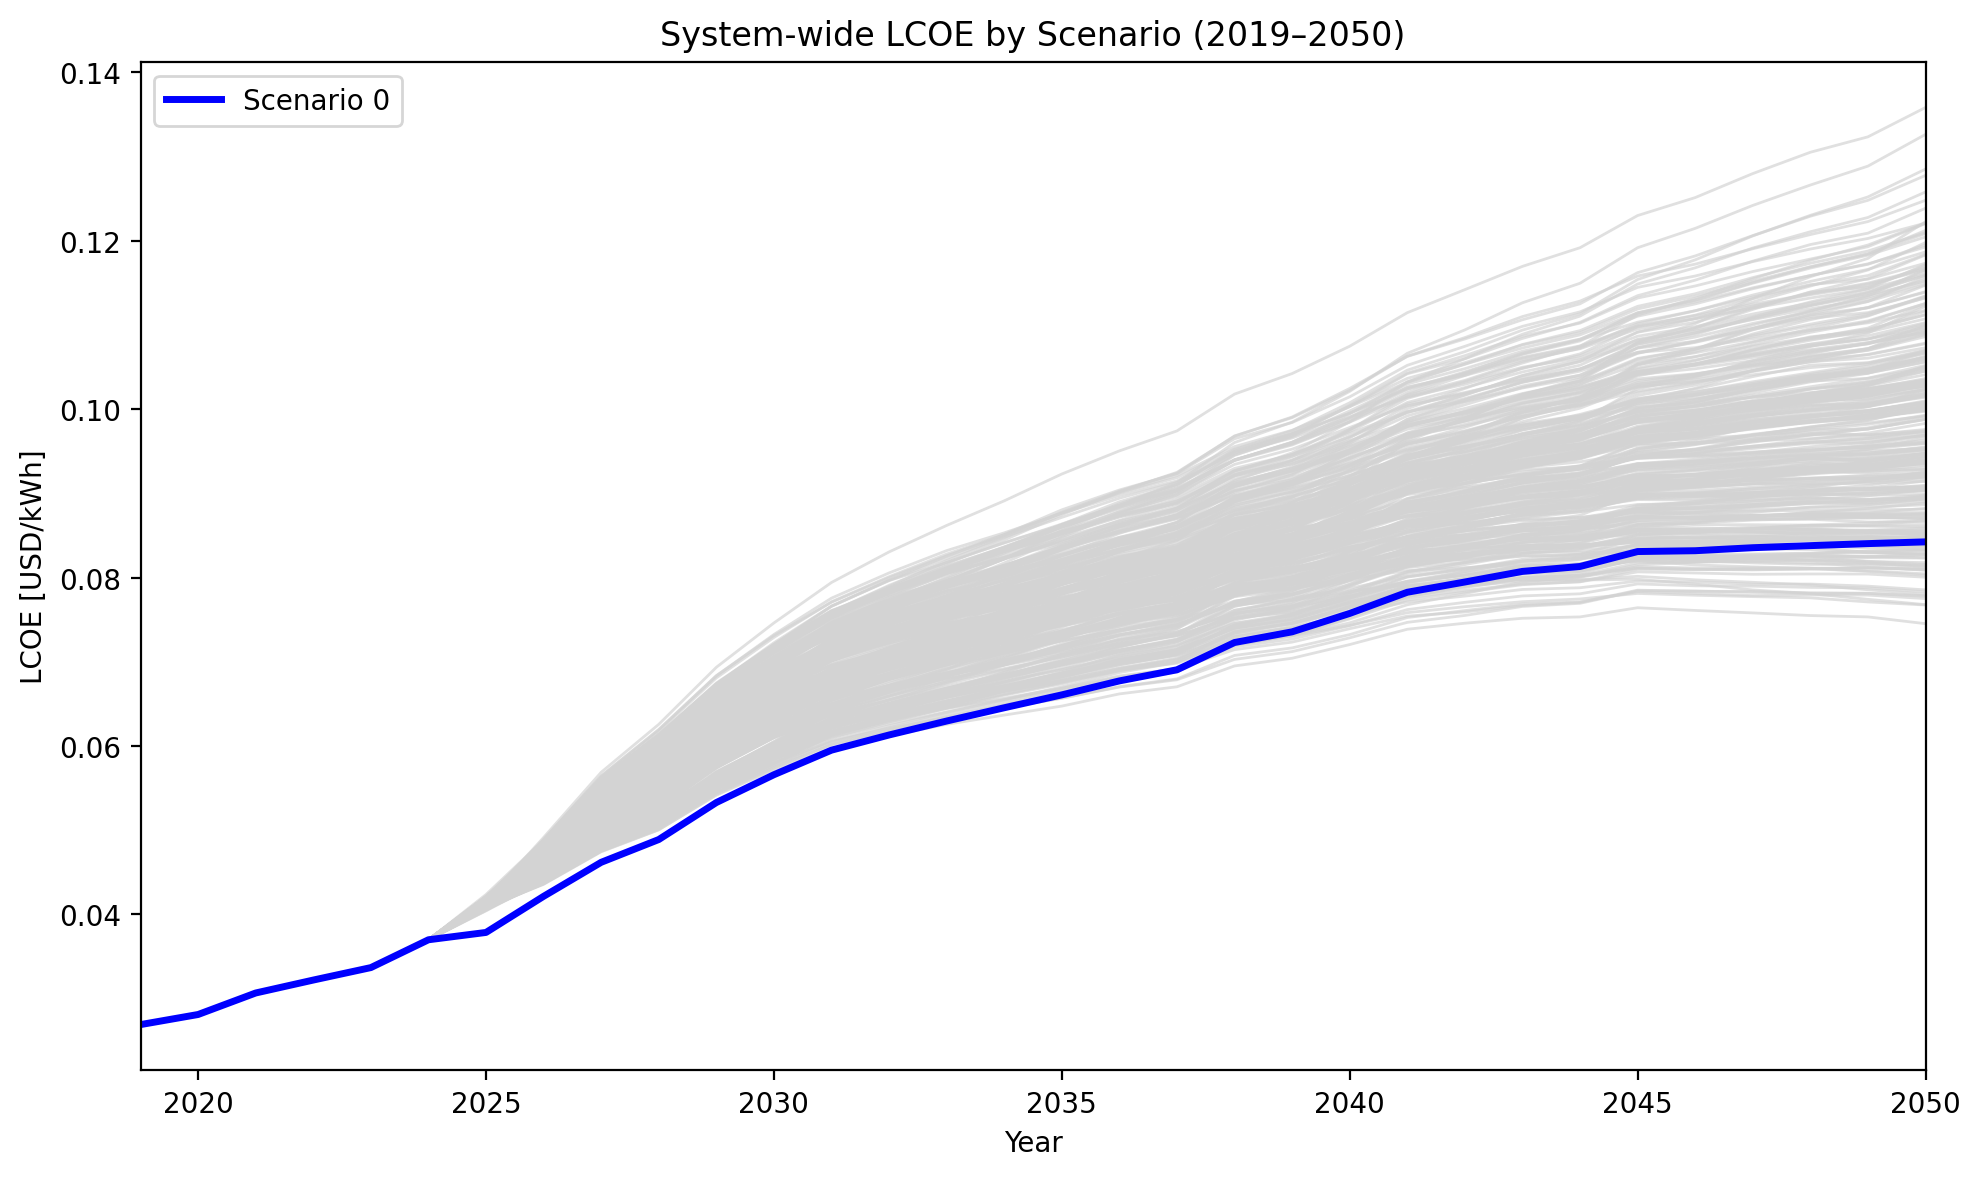
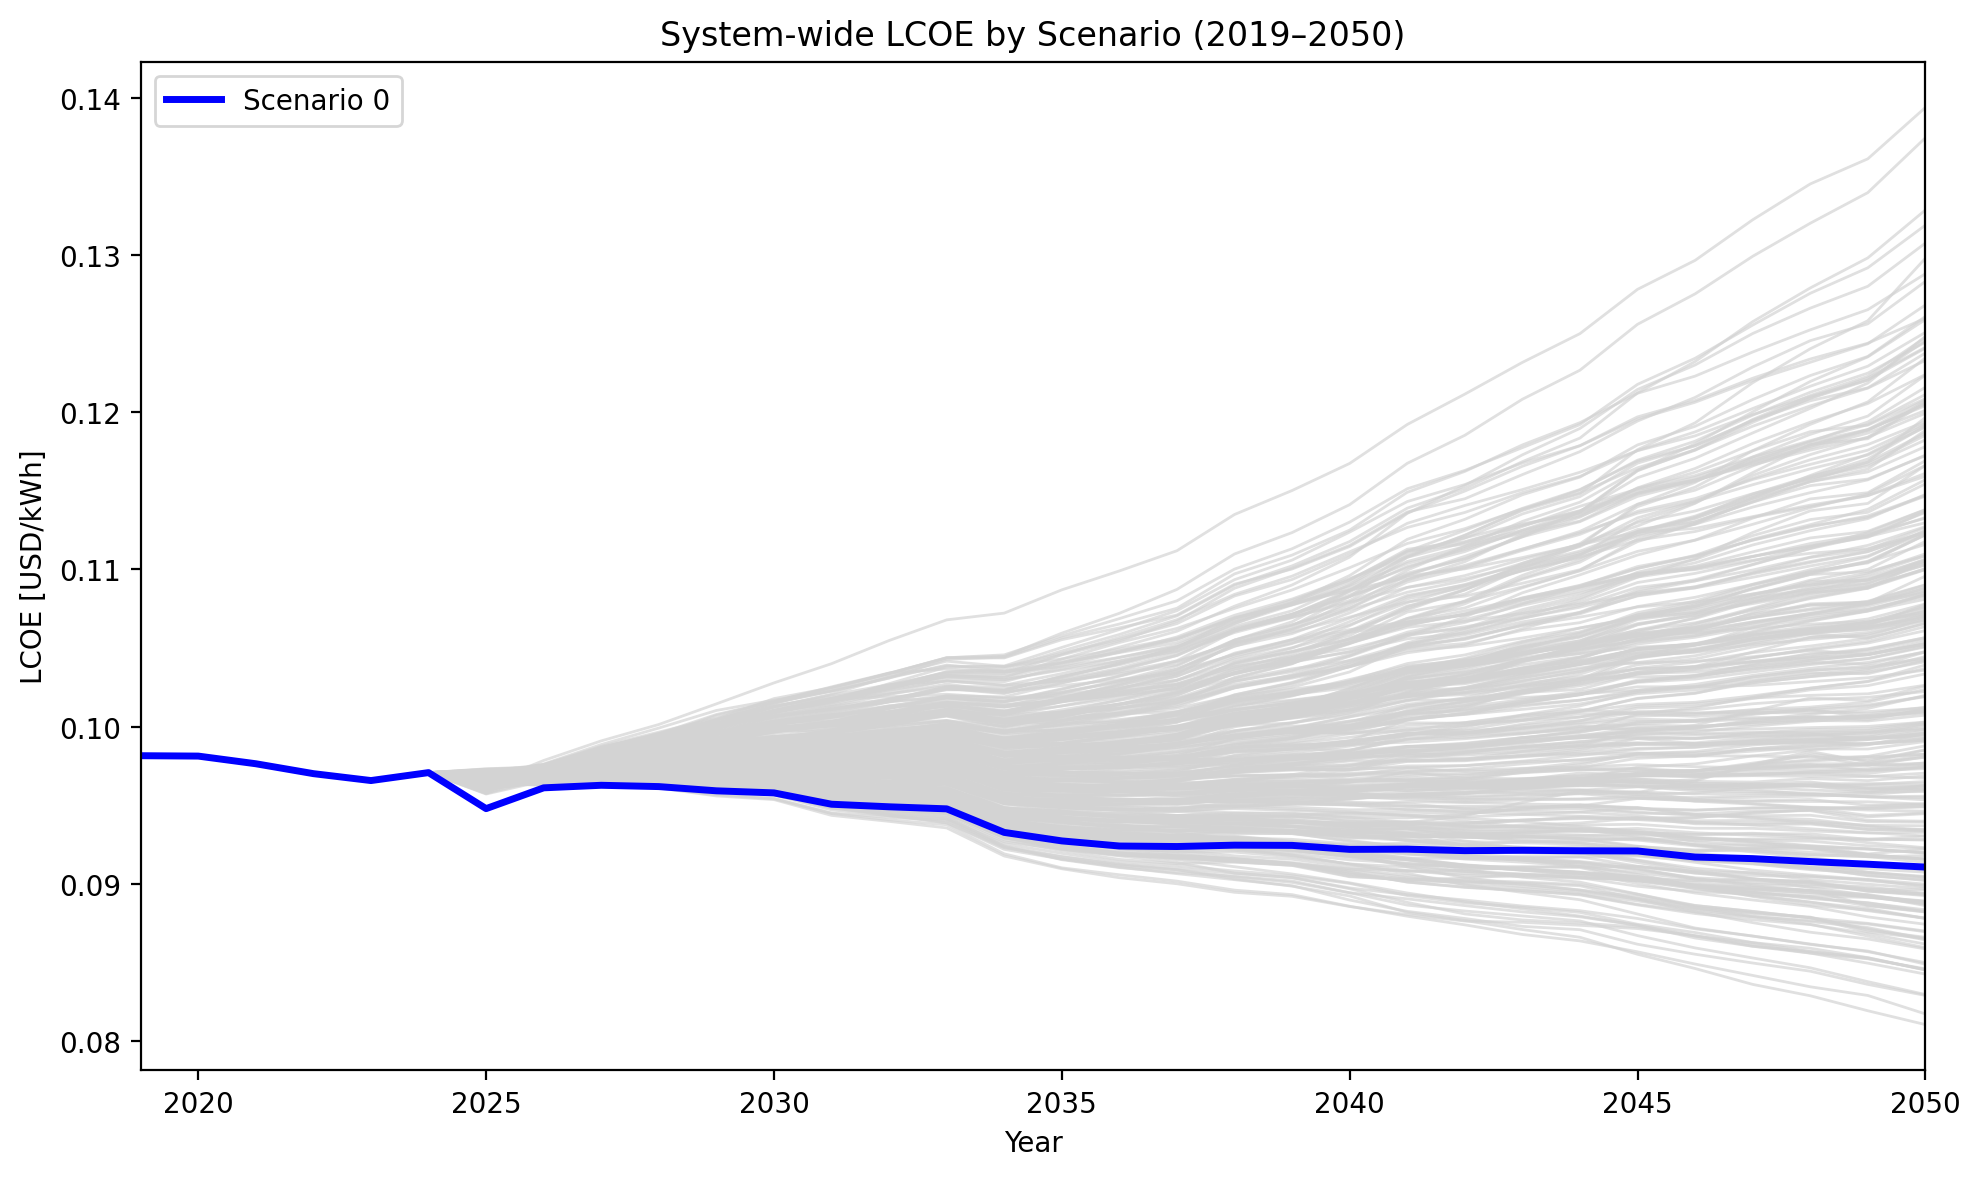
add residual capacity to lcoe

diff --git a/Results/lcoe.py b/Results/lcoe.py
@@ -121,6 +121,11 @@ def compute_lcoe_from_csv(input_csv: str,
     to the CSV files and return a DataFrame:
 
         ['Future.ID', 'YEAR', 'LCOE', 'Strategy']
+
+    Numerator components per (Future.ID, YEAR):
+      - Rolling annualised investment from new builds (AIC)
+      - Annual fixed + variable operating cost
+      - Annualised investment cost of residual capacity (ResidualAIC)
     """
 
     # --- Read CSVs ---
@@ -161,9 +166,11 @@ def compute_lcoe_from_csv(input_csv: str,
         if "Strategy" in df_out.columns:
             strategy_val = df_out["Strategy"].dropna().astype(str).iloc[0]
 
-        # Life & discount maps
+        # Life & discount maps from input
         life_by_tech = read_operational_life(df_in)
         rate_by_ty = read_discount_rate_by_tech_year(df_in)
+
+        # --- AIC from new builds (rolling) ---
 
         df = df_out.copy()
         if "YEAR" not in df.columns or "TECHNOLOGY" not in df.columns:
@@ -192,13 +199,13 @@ def compute_lcoe_from_csv(input_csv: str,
             mapped = s_ty.reindex(mi)
             rate_map.loc[mask_y] = pd.to_numeric(mapped.values, errors="coerce")
 
-        # Fallback scalar
+        # Fallback scalar for missing rates
         rate_map = rate_map.fillna(float(fallback_discount_rate))
 
         # Capital investment
         cap = pd.to_numeric(df.get("CapitalInvestment", 0.0), errors="coerce").fillna(0.0)
 
-        # Incremental annualised cost
+        # Incremental annualised cost per row (build-year AIC)
         crf_vals = [
             capital_recovery_factor_original(r, n)
             for r, n in zip(pd.to_numeric(rate_map, errors="coerce"),
@@ -225,7 +232,7 @@ def compute_lcoe_from_csv(input_csv: str,
             else:
                 window = int(max(1, math.ceil(float(life_vals.max()))))
 
-            per_year = g.groupby("YEAR", sort=True)["inc"].max()
+            per_year = g.groupby("YEAR", sort=True)["inc"].max()  # match original: max per year
             roll = per_year.rolling(window=window, min_periods=1).sum()
 
             rec = pd.DataFrame({
@@ -241,7 +248,7 @@ def compute_lcoe_from_csv(input_csv: str,
         else:
             aic_by_year = pd.Series(dtype="float64")
 
-        # Variable + fixed O&M
+        # --- Variable + fixed O&M by year for this future ---
         var_col = "AnnualVariableOperatingCost"
         fix_col = "AnnualFixedOperatingCost"
         for col in [var_col, fix_col]:
@@ -251,8 +258,125 @@ def compute_lcoe_from_csv(input_csv: str,
 
         om_by_year = df.groupby("YEAR", sort=True)[[var_col, fix_col]].sum().sum(axis=1)
 
-        # Total cost
+        # --- Residual capacity component (AnnualizedCapitalInvestmentResidual analogue) ---
+        resid_by_year = pd.Series(dtype="float64")
+        if "ResidualCapacity" in df_in.columns:
+            res = df_in[["TECHNOLOGY", "YEAR", "ResidualCapacity"]].copy()
+            res["TECHNOLOGY"] = res["TECHNOLOGY"].astype(str).str.strip()
+            res["YEAR"] = pd.to_numeric(res["YEAR"], errors="coerce")
+            res["ResidualCapacity"] = pd.to_numeric(res["ResidualCapacity"], errors="coerce")
+            res = res.dropna(subset=["YEAR", "ResidualCapacity"])
+            res = res[res["YEAR"] >= 1900]
+            if not res.empty:
+                res["YEAR"] = res["YEAR"].astype(int)
+
+                # Base year (aligned with first CapitalCost year if possible)
+                base_year = None
+                if "CapitalCost" in df_in.columns:
+                    cc_df = df_in[["TECHNOLOGY", "YEAR", "CapitalCost"]].copy()
+                    cc_df["TECHNOLOGY"] = cc_df["TECHNOLOGY"].astype(str).str.strip()
+                    cc_df["YEAR"] = pd.to_numeric(cc_df["YEAR"], errors="coerce")
+                    cc_df["CapitalCost"] = pd.to_numeric(cc_df["CapitalCost"], errors="coerce")
+                    cc_df = cc_df.dropna(subset=["YEAR", "CapitalCost"])
+                    years_ok = cc_df["YEAR"][cc_df["YEAR"] >= 1900]
+                    if not years_ok.empty:
+                        base_year = int(years_ok.min())
+                if base_year is None:
+                    years_ok = res["YEAR"]
+                    if not years_ok.empty:
+                        base_year = int(years_ok.min())
+
+                # Base discount rate scalar: from rate_by_ty at base_year if available, else fallback
+                if rate_by_ty is not None and base_year is not None and not rate_by_ty.empty:
+                    ty_year = rate_by_ty[rate_by_ty["YEAR"].astype(int) == base_year]
+                    if not ty_year.empty:
+                        r_base_scalar = float(pd.to_numeric(ty_year["__rate_by_ty"], errors="coerce").max())
+                    else:
+                        r_base_scalar = float(fallback_discount_rate)
+                else:
+                    r_base_scalar = float(fallback_discount_rate)
+
+                # Per-tech base-year rate map (if available)
+                r_base_map = None
+                if rate_by_ty is not None and base_year is not None and not rate_by_ty.empty:
+                    ty_year = rate_by_ty[rate_by_ty["YEAR"].astype(int) == base_year]
+                    if not ty_year.empty:
+                        r_base_map = ty_year.set_index("TECHNOLOGY")["__rate_by_ty"]
+                        r_base_map.index = r_base_map.index.astype(str).str.strip()
+
+                # Life per tech (from life_by_tech)
+                life_s_local = None
+                if life_by_tech is not None and not life_by_tech.empty:
+                    life_s_local = pd.to_numeric(life_by_tech, errors="coerce")
+                    life_s_local.index = life_s_local.index.astype(str).str.strip()
+
+                # CRF per tech at base rate
+                crf_base_s = pd.Series(dtype="float64")
+                if life_s_local is not None:
+                    if r_base_map is not None and not r_base_map.empty:
+                        rate_vec = life_s_local.index.to_series().map(
+                            lambda t: r_base_map.get(t, r_base_scalar)
+                        )
+                    else:
+                        rate_vec = pd.Series(r_base_scalar, index=life_s_local.index)
+
+                    crf_base_s = pd.Series(
+                        [
+                            capital_recovery_factor_original(r, n)
+                            for r, n in zip(pd.to_numeric(rate_vec, errors="coerce"),
+                                            pd.to_numeric(life_s_local, errors="coerce"))
+                        ],
+                        index=life_s_local.index,
+                    )
+
+                # Aggregate residual capacity per (TECHNOLOGY, YEAR)
+                res_agg = res.groupby(["TECHNOLOGY", "YEAR"], sort=False)["ResidualCapacity"].max().reset_index()
+
+                # Map base CRF
+                if not crf_base_s.empty:
+                    res_agg["__crf_base"] = pd.to_numeric(
+                        res_agg["TECHNOLOGY"].map(crf_base_s),
+                        errors="coerce",
+                    ).fillna(0.0)
+                else:
+                    # No life information: no residual AIC
+                    res_agg["__crf_base"] = 0.0
+
+                # CapitalCost[first model year] per tech
+                capcost_map = pd.Series(dtype="float64")
+                if "CapitalCost" in df_in.columns:
+                    cap_df = df_in[["TECHNOLOGY", "YEAR", "CapitalCost"]].copy()
+                    cap_df["TECHNOLOGY"] = cap_df["TECHNOLOGY"].astype(str).str.strip()
+                    cap_df["YEAR"] = pd.to_numeric(cap_df["YEAR"], errors="coerce")
+                    cap_df["CapitalCost"] = pd.to_numeric(cap_df["CapitalCost"], errors="coerce")
+                    cap_df = cap_df.dropna(subset=["CapitalCost"])
+                    years_ok = cap_df["YEAR"].dropna()
+                    years_ok = years_ok[years_ok >= 1900]
+                    if not years_ok.empty:
+                        first_year = int(years_ok.min())
+                        first_cap = cap_df[cap_df["YEAR"] == first_year]
+                        capcost_map = first_cap.groupby("TECHNOLOGY", sort=False)["CapitalCost"].max()
+                    else:
+                        capcost_map = cap_df.groupby("TECHNOLOGY", sort=False)["CapitalCost"].max()
+
+                res_agg["__cap_base"] = pd.to_numeric(
+                    res_agg["TECHNOLOGY"].map(capcost_map),
+                    errors="coerce",
+                ).fillna(0.0)
+
+                # Residual investment and annualised residual AIC
+                resid_base_invest = (
+                    pd.to_numeric(res_agg["ResidualCapacity"], errors="coerce").fillna(0.0)
+                    * res_agg["__cap_base"]
+                )
+                res_agg["__resid_aic"] = resid_base_invest * res_agg["__crf_base"]
+
+                # Sum residual AIC by year
+                resid_by_year = res_agg.groupby("YEAR", sort=True)["__resid_aic"].sum()
+
+        # --- Total cost per year for this Future.ID ---
         cost_by_year = aic_by_year.add(om_by_year, fill_value=0.0)
+        cost_by_year = cost_by_year.add(resid_by_year, fill_value=0.0)
 
         # Demand for this Future.ID
         dem_f = demand_by_fy.xs(fid_int, level=0)
@@ -279,36 +403,51 @@ def compute_lcoe_from_csv(input_csv: str,
     lcoe_df = pd.DataFrame(lcoe_records)
     return lcoe_df.sort_values(["Future.ID", "YEAR"]).reset_index(drop=True)
 
+
 def plot_line_lcoe_full_horizon(lcoe_df: pd.DataFrame,
                                 save: bool = False,
                                 filename: str = "line_lcoe_full.png") -> None:
     """
     Plot system-wide LCOE by Future.ID over the full time horizon (2019–2050),
-    using the same style as plot_line_lcoe in plots.py:
-      - Scenario 0 in blue, others in light grey
-      - LCOE converted to USD/kWh (×0.0036)
-      - x-ticks every 5 years
+    in the same style as plot_line_lcoe, ensuring Scenario 0 is drawn LAST
+    so that it is on top of all other lines.
     """
-    df_lcoe = lcoe_df.copy()
 
-    # Ensure numeric and drop zeros/NaNs
+    df_lcoe = lcoe_df.copy()
     df_lcoe["LCOE"] = pd.to_numeric(df_lcoe["LCOE"], errors="coerce")
     df_lcoe = df_lcoe.dropna(subset=["LCOE"])
     df_lcoe = df_lcoe.loc[df_lcoe["LCOE"] != 0]
 
-    # Convert to USD/kWh as in plots.py
+    # Convert to USD/kWh (same as plots.py)
     df_lcoe["LCOE_kWh"] = df_lcoe["LCOE"] * 0.0036
 
     plt.figure(figsize=(10, 6))
-    for fid, grp in df_lcoe.groupby("Future.ID"):
-        grp = grp.sort_values("YEAR")
-        if fid == 0:
-            plt.plot(grp["YEAR"], grp["LCOE_kWh"],
-                     color="blue", linewidth=2, label="Scenario 0")
-        else:
-            plt.plot(grp["YEAR"], grp["LCOE_kWh"],
-                     color="lightgrey", linewidth=1, alpha=0.7)
 
+    # --- 1. Plot all scenarios EXCEPT 0 first (background) ---
+    for fid, grp in df_lcoe.groupby("Future.ID"):
+        if fid == 0:
+            continue
+        grp = grp.sort_values("YEAR")
+        plt.plot(
+            grp["YEAR"],
+            grp["LCOE_kWh"],
+            color="lightgrey",
+            linewidth=1,
+            alpha=0.7
+        )
+
+    # --- 2. Plot Scenario 0 LAST (foreground) ---
+    if 0 in df_lcoe["Future.ID"].unique():
+        grp0 = df_lcoe[df_lcoe["Future.ID"] == 0].sort_values("YEAR")
+        plt.plot(
+            grp0["YEAR"],
+            grp0["LCOE_kWh"],
+            color="blue",
+            linewidth=2.5,
+            label="Scenario 0"
+        )
+
+    # --- Styling ---
     ax = plt.gca()
     ax.set_xlim(2019, 2050)
     ax.xaxis.set_major_locator(mticker.MultipleLocator(5))
